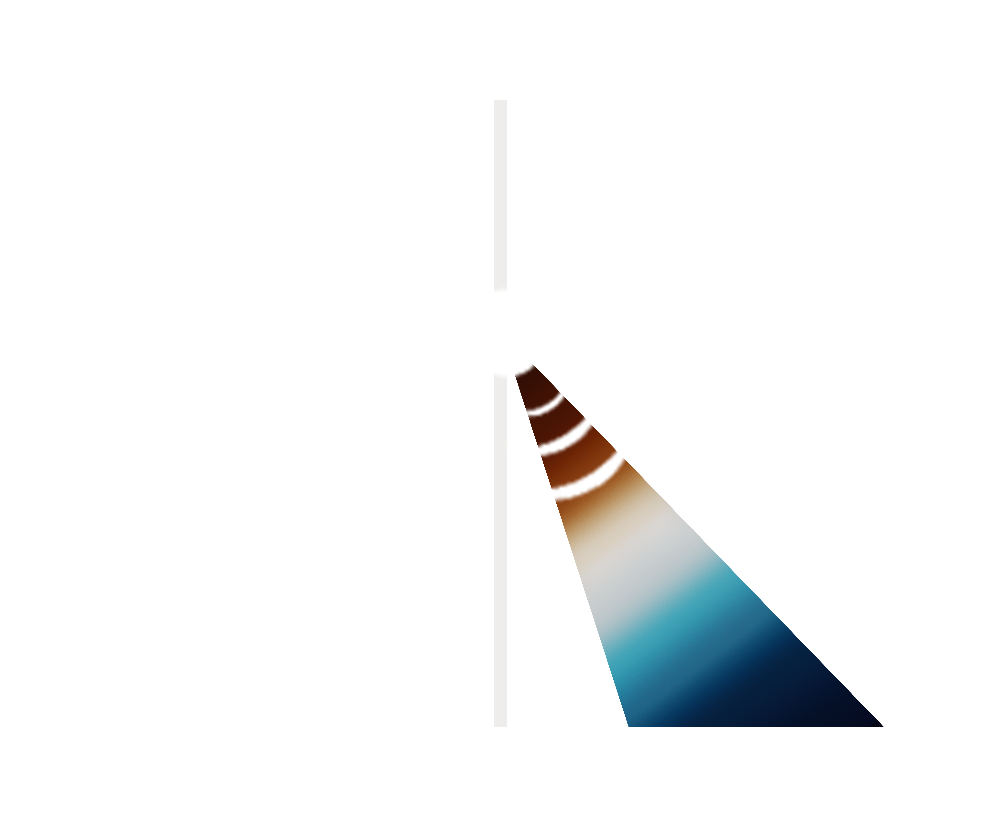
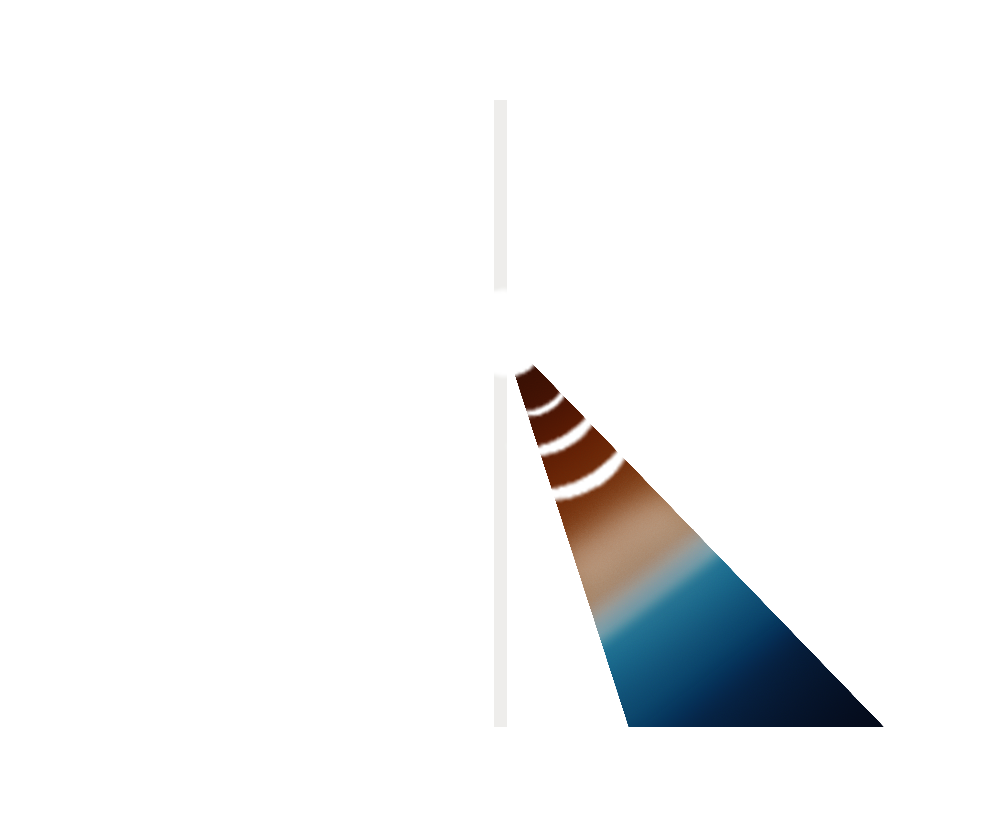
WIP Sat Dark Mode

Changed region(s): [[0.558, 0.5591, 0.775, 0.8698]]

diff --git a/src/app/components/header/timeseries-header/timeseries-header.component.ts b/src/app/components/header/timeseries-header/timeseries-header.component.ts
@@ -35,16 +35,23 @@ import { TranslateModule } from '@ngx-translate/core';
 export class TimeseriesHeaderComponent implements OnInit, OnDestroy {
   private store$ = inject<Store<AppState>>(Store);
   private screenSize = inject(ScreenSizeService);
-
   public breakpoint$ = this.screenSize.breakpoint$;
+  public isDarkMode = false;
   public breakpoints = models.Breakpoints;
   public isDrawing = false;
   public flightDirections: models.FlightDirection[];
   public flightDesc = false;
 
   private subs = new SubSink();
+  private themeObserver: MutationObserver;
 
   ngOnInit() {
+    this.isDarkMode = document.body.classList.contains('theme-dark');
+    this.themeObserver = new MutationObserver(() => {
+      this.isDarkMode = document.body.classList.contains('theme-dark');
+    });
+    this.themeObserver.observe(document.body, { attributes: true, attributeFilter: ['class'] });
+
     this.flightDesc = false;
     this.subs.add(
       this.store$
@@ -85,5 +92,6 @@ export class TimeseriesHeaderComponent implements OnInit, OnDestroy {
 
   ngOnDestroy() {
     this.subs.unsubscribe();
+    this.themeObserver?.disconnect();
   }
 }

diff --git a/src/app/components/header/timeseries-header/timeseries-header.component.html b/src/app/components/header/timeseries-header/timeseries-header.component.html
@@ -39,14 +39,23 @@
             }
           </span>
           <span class="line-of-site-icon">
-            <img
-              ngSrc="assets/satellite-graphics/sat-1.png"
-              class="invert-icon"
-              [class.flip-icon]="flightDesc"
-              alt="Line of Site"
-              height="70"
-              width="84"
-            />
+            @if (isDarkMode) {
+              <img
+                ngSrc="assets/satellite-graphics/sat-1-dark.png"
+                [class.flip-icon]="flightDesc"
+                alt="Line of Site"
+                height="70"
+                width="84"
+              />
+            } @else {
+              <img
+                ngSrc="assets/satellite-graphics/sat-1.png"
+                [class.flip-icon]="flightDesc"
+                alt="Line of Site"
+                height="70"
+                width="84"
+              />
+            }
           </span>
           <span class="line-of-site-icon-text">
             {{ 'INCIDENCE_ANGLE' | translate }}: 29° &ndash; 46°
